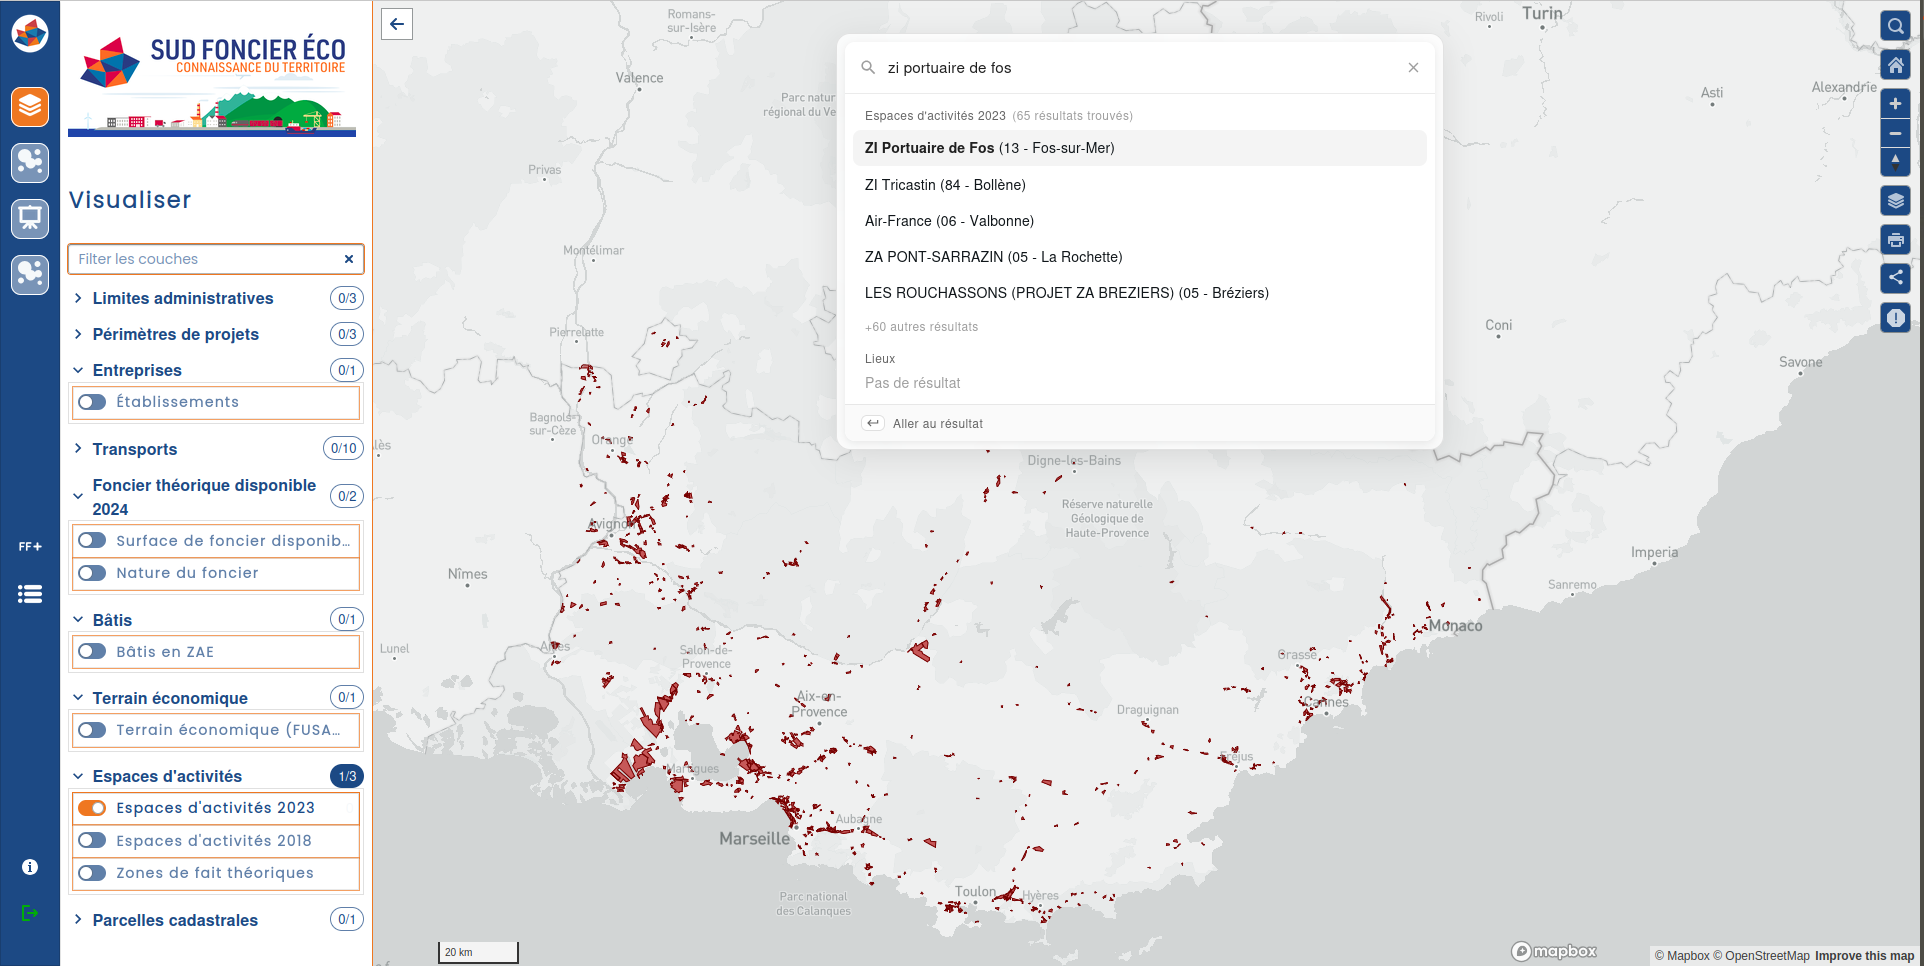
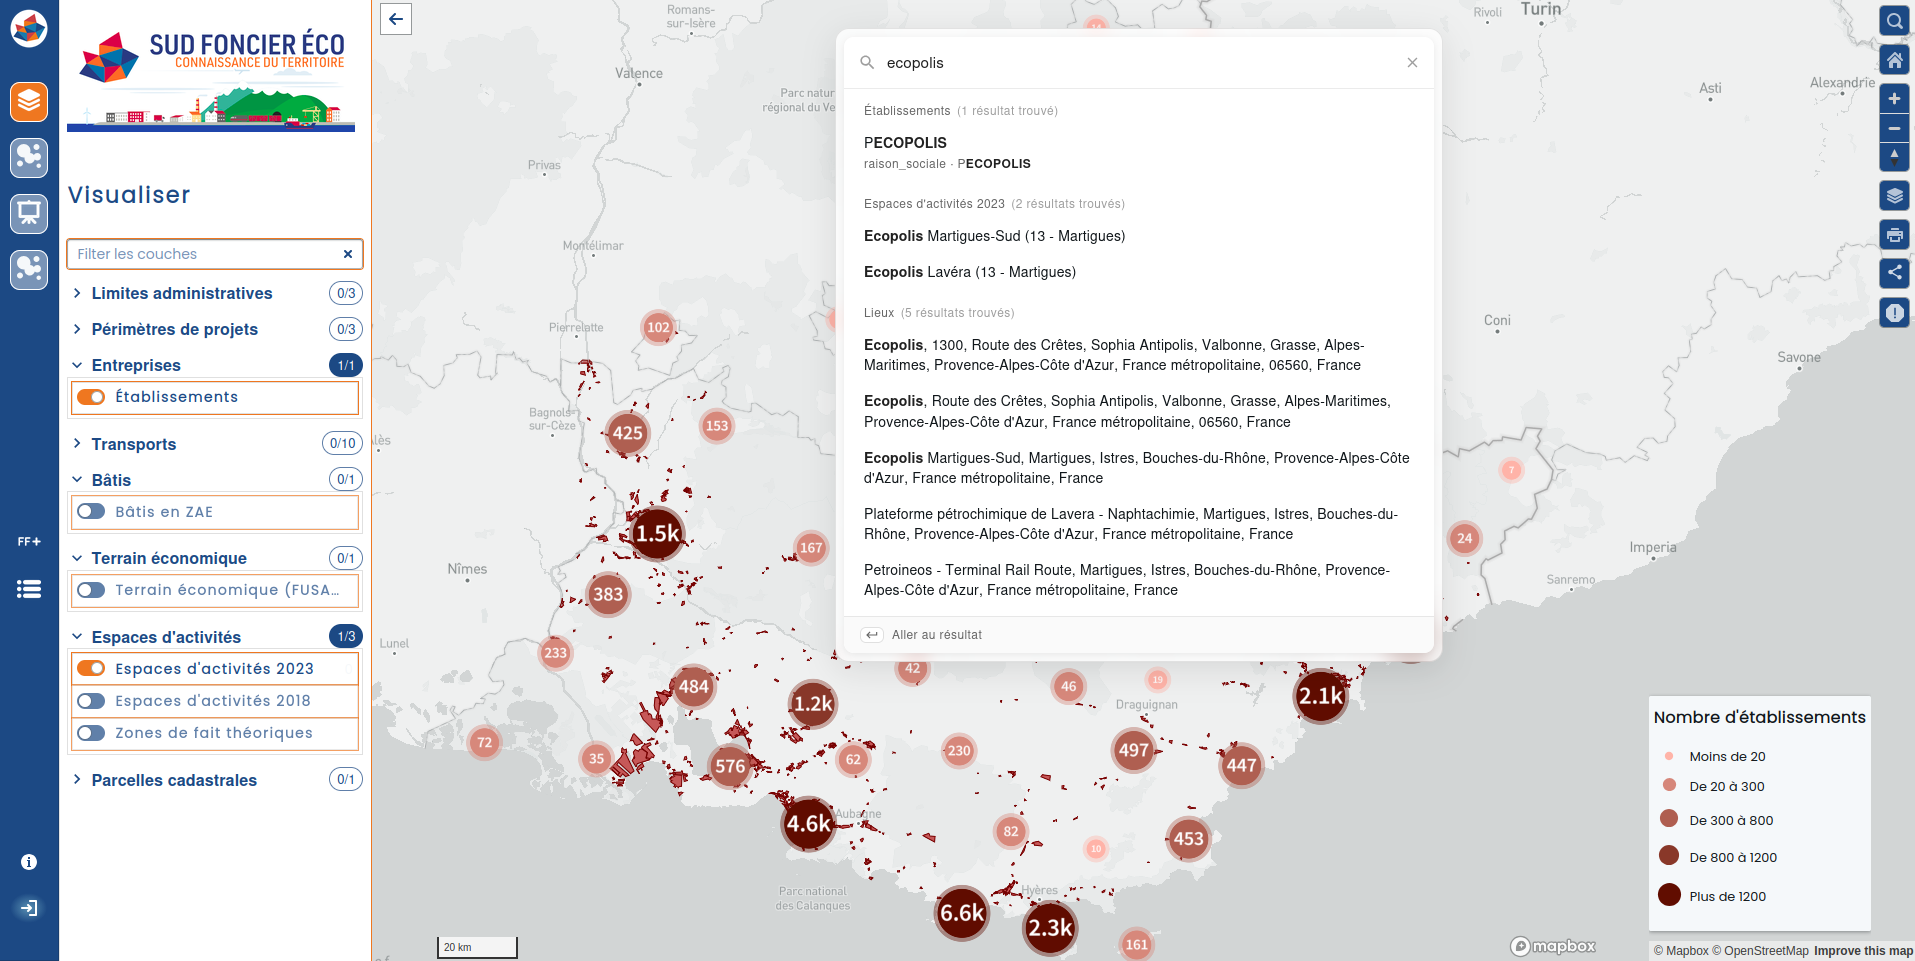
Update search bar section

diff --git a/docs/source/user_manual/user_guide.rst b/docs/source/user_manual/user_guide.rst
@@ -365,19 +365,36 @@ Quelques uns de ces outils de navigation sont détaillés ci-après.
 La recherche sur la carte
 ~~~~~~~~~~~~~~~~~~~~~~~~~~~~~
 
-La recherche sur la carte (via l'outil loupe) permet d'effectuer à la fois :
+La recherche sur la carte est accessible depuis l'outil :guilabel:`Loupe`. Un clic sur cet outil ouvre une **barre de recherche située en haut et au centre de la carte**.
 
-* une recherche de lieu ou d'adresse par un appel à la base d'adresses Nominatim implémenté,
-* une recherche dans les champs textuels d'une ou plusieurs couches activées (exemple : une parcelle par le nom du propriétaire).
+Cette barre permet d'effectuer deux types de recherche :
 
-Le fait de sélectionner un résultat dans les attributs de la ou les couches activées permet de zoomer sur ce résultat, de sélectionner l'objet en surbrillance et d'ouvrir la mini-fiche (si elle est `configurée <https://terravisu.readthedocs.io/en/latest/user_manual/admin_user_guide.html#onglet-mini-fiche>`_).
+* une **recherche de lieu ou d'adresse**, à partir du service de recherche géographique `Nominatim <https://nominatim.org/>`_
+* une **recherche dans les champs textuels des couches activées** dans la vue. Il est par exemple possible de rechercher une parcelle à partir du nom de son propriétaire.
 
-Le comportement est différent si on sélectionne un résultat pour la recherche de lieu puisqu'il permet uniquement de centrer et zoomer sur l'emprise géographique correspondante sans réaliser d'intéraction avec la ou les couches activées.
+La recherche affiche jusqu'à **10 résultats**, classés selon leur pertinence par rapport aux termes saisis.
+
+La recherche d'un **lieu ou d'une adresse est disponible indépendamment des couches activées** dans la vue. Il n'est donc pas nécessaire d'activer une couche pour rechercher et localiser un lieu ou une adresse sur la carte.
 
 **Exemple de recherche**
 
 .. image :: ../_static/images/visu/visu_recherche.png
 
+Recherche dans les couches activées
+^^^^^^^^^^^^^^^^^^^^^^^^^^^^^^^^^^^^
+
+Lorsqu'un résultat correspond aux attributs d'une couche activée, sa sélection permet :
+
+* de zoomer sur l'objet correspondant 
+* de sélectionner et mettre en surbrillance l'objet sur la carte 
+* d'ouvrir sa mini-fiche, si celle-ci est `configurée <https://terravisu.readthedocs.io/en/latest/user_manual/admin_user_guide.html#onglet-mini-fiche>`_
+
+Recherche d'un lieu ou d'une adresse
+^^^^^^^^^^^^^^^^^^^^^^^^^^^^^^^^^^^^^
+
+La recherche de lieu ou d'adresse fonctionne indépendamment des couches présentes sur la carte : **aucune couche n'a besoin d'être activée pour l'utiliser**.
+
+Lorsqu'un résultat de ce type est sélectionné, la carte est automatiquement centrée et zoomée sur l'emprise géographique correspondante. Contrairement à une recherche effectuée dans les attributs d'une couche, aucun objet n'est sélectionné et aucune mini-fiche n'est ouverte.
 
 Le retour à l'emprise d'origine
 ~~~~~~~~~~~~~~~~~~~~~~~~~~~~~~~~~~~
